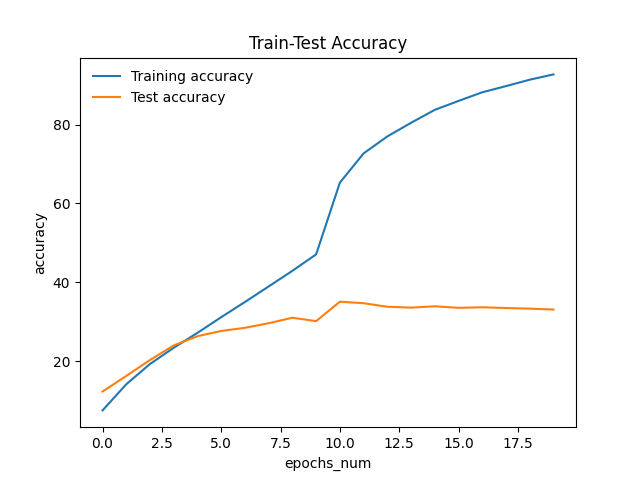
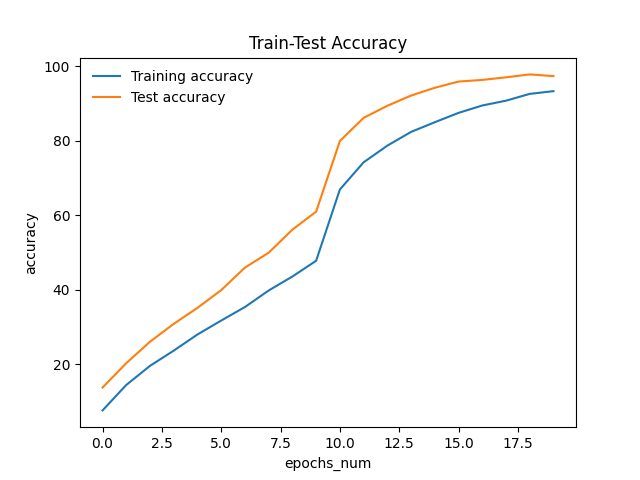
weighted loss

diff --git a/main.py b/main.py
@@ -55,19 +55,22 @@ def make_data_sets():
 
     return data_transforms, data_sets, dataloaders
 
+arc_loss = losses.ArcFaceLoss(num_classes=100, embedding_size=128).to(torch.device('cuda'))
+normal_loss = nn.CrossEntropyLoss()
+
+
+def weighted_loss(outputs, labels):
+    return 0.5 * arc_loss(outputs, labels) + 0.5 * normal_loss(outputs, labels)
+
 
 def main_fun():
     dt, ds, dl = make_data_sets()
     model = models.resnet50(weights=None, num_classes=100)
-    model.load_state_dict(torch.load("./models/resNet50.pt"))
-    #model = models.vgg19(weights=None, num_classes=100)
-    #model = models.mobilenet_v2(weights=None, num_classes=100)
-    emb_size = 100
-    resnet50 = mw.ModelWrapper(data_loaders=dl, data_sets=ds, epochs_num=20,
+    model.fc = nn.Linear(2048, 128)
+    resnet50 = mw.ModelWrapper(data_loaders=dl, data_sets=ds, epochs_num=50,
                                model=model,
-                               loss_fun=losses.ArcFaceLoss(num_classes=100, embedding_size=emb_size,
-                                                           margin=28.6, scale=64).to(torch.device('cuda')),
-                               learning_rate=3e-5)
+                               #loss_fun=losses.MarginLoss(num_classes=100).to(torch.device('cuda:0')))
+                               loss_fun=weighted_loss)
     train_accuracies, test_accuracies, train_losses, test_losses = resnet50.train_it()
 
     #vgg19 = mw.ModelWrapper(data_loaders=dl, data_sets=ds, epochs_num=20, model=models.vgg19(weights=None))
@@ -86,7 +89,7 @@ def main_fun():
     plt.xlabel('epochs_num')
     plt.ylabel('accuracy')
     plt.legend(frameon=False)
-    plt.savefig('accuracy_stat_ResNet50MarginLoss_pretrained.png')
+    plt.savefig('accuracy_stat_resnet50_arc_loss_50.png')
 
     plt.clf()
 
@@ -96,7 +99,7 @@ def main_fun():
     plt.xlabel('epochs_num')
     plt.ylabel('loss')
     plt.legend(frameon=False)
-    plt.savefig('losses_stat_ResNet50MarginLoss_pretrained.png')
+    plt.savefig('losses_stat_resnet50_arc_loss_50.png')
 
 
 if __name__ == '__main__':
